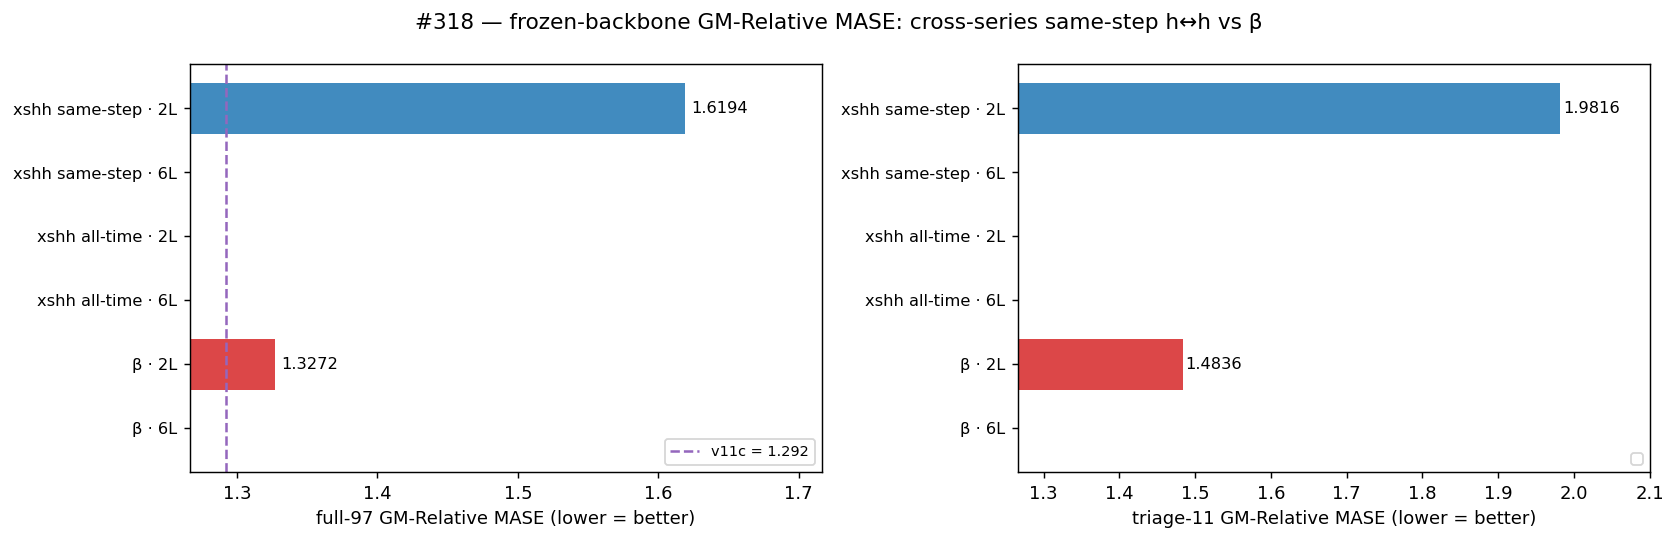
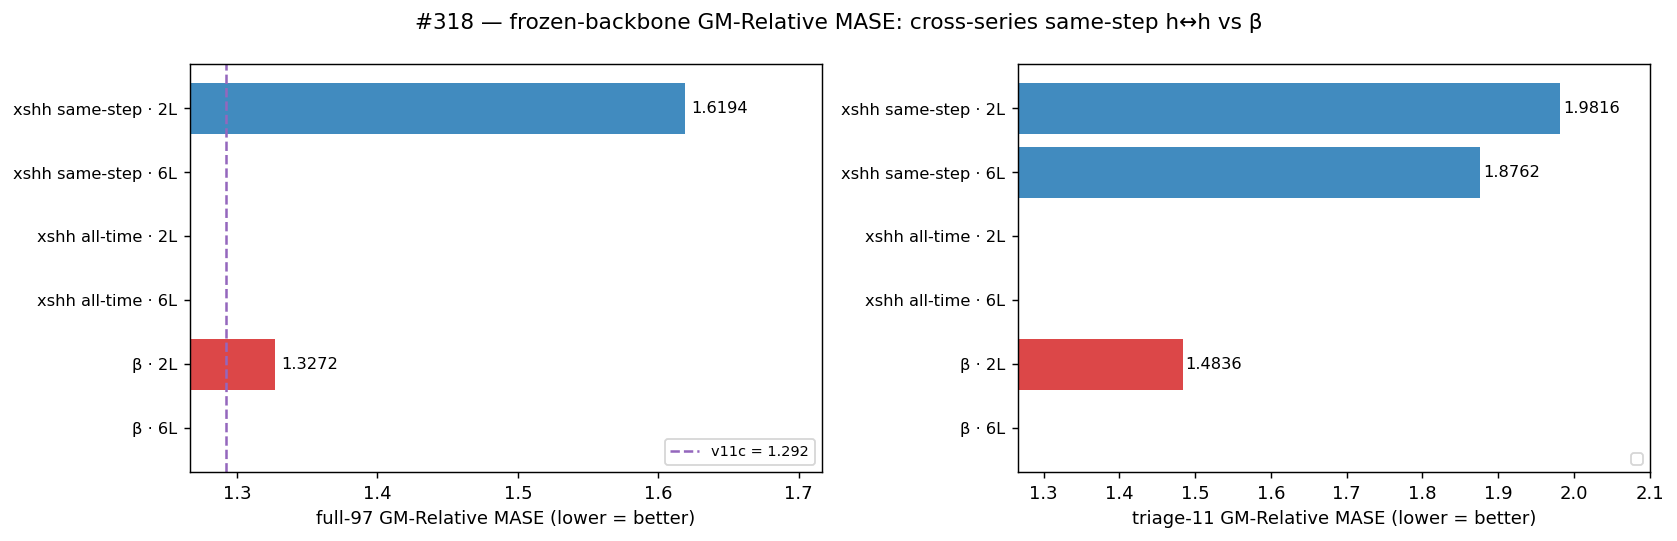
results(#318): record same-step 6L triage = 1.8762 (full-97 pending)
6L head barely helps triage (1.876 vs 2L's 1.982), still far above β (1.484)
— consistent with the regression being in the backbone, not head capacity.

Changed region(s): [[0.5891, 0.2662, 0.9302, 0.3845]]

diff --git a/experiments/2026-05-23_xseries_hh/RESULTS.md b/experiments/2026-05-23_xseries_hh/RESULTS.md
@@ -133,7 +133,7 @@ _(landing)_
 | **β** (#309) | 2L | 1.3272 | 1.4836 |
 | **β** (#309) | 6L | _(landing)_ | _(landing)_ |
 | **xshh same-step** | 2L | **1.6194** | 1.9816 |
-| **xshh same-step** | 6L | _(landing)_ | _(landing)_ |
+| **xshh same-step** | 6L | _(landing)_ | 1.8762 |
 | **xshh all-time** | 2L | _(landing)_ | _(landing)_ |
 | **xshh all-time** | 6L | _(landing)_ | _(landing)_ |
 | v11c (ref) | 2L | 1.292 | — |
